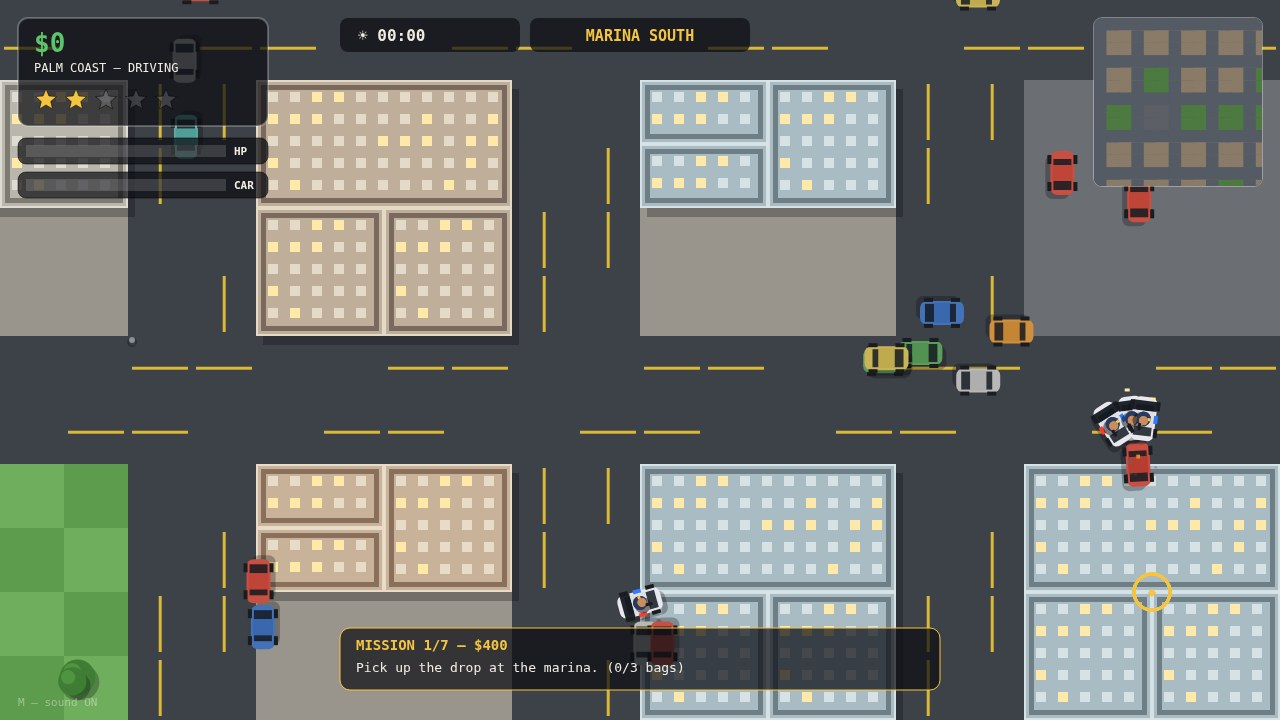
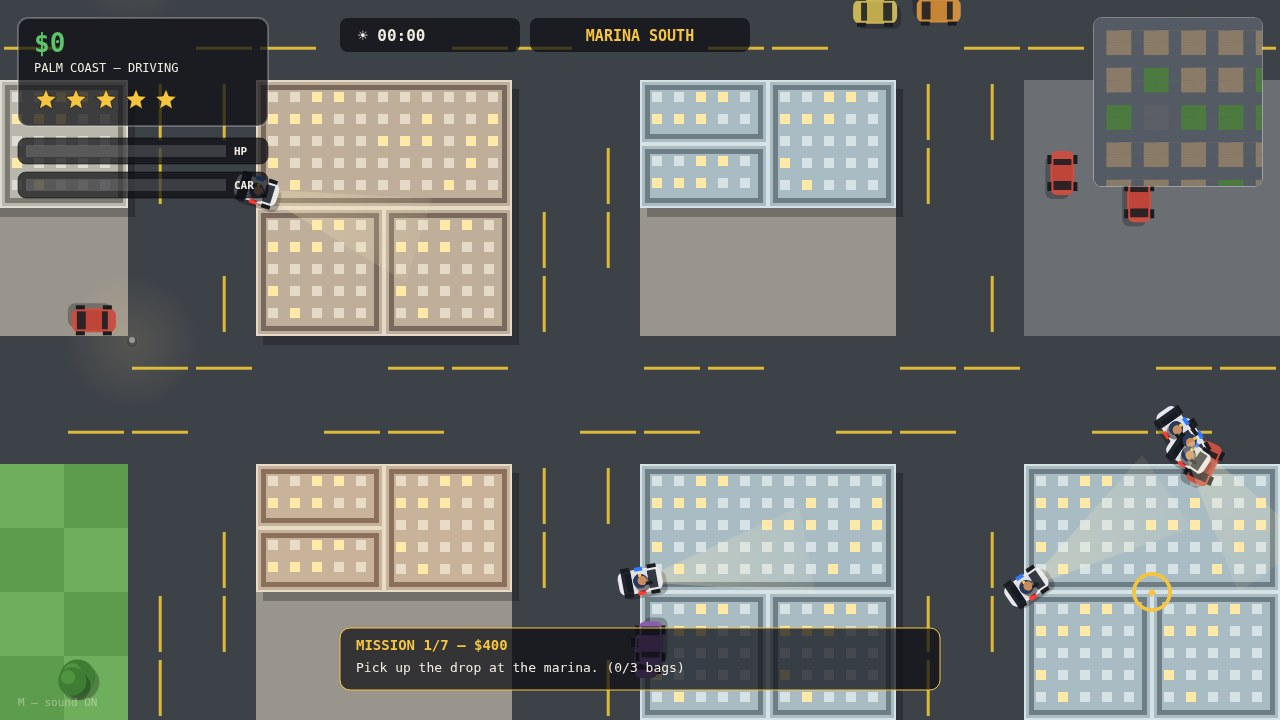
Visual/audio polish: effects, lights, minimap, complete

diff --git a/game/src/render.js b/game/src/render.js
@@ -32,6 +32,180 @@ export function createRenderer(canvas) {
   canvas.height = VIEW_H;
   ctx.imageSmoothingEnabled = false;
 
+  // --- explosion FX: register a boom when a car crosses from burning to destroyed ---
+  function updateBooms(world, cam, time) {
+    for (const c of world.cars) {
+      const prev = state.burnPrev.get(c);
+      if (c.burn === -999 && prev !== undefined && prev !== -999) {
+        // detonation frame: flash + expanding shockwave + debris spray
+        state.booms.push({ x: c.x, y: c.y, t0: time });
+        state.shake = Math.max(state.shake, 10);
+        for (let i = 0; i < 26; i++) {
+          const a = Math.random() * Math.PI * 2;
+          const s = 90 + Math.random() * 190;
+          world.particles.push({
+            x: c.x, y: c.y,
+            vx: Math.cos(a) * s, vy: Math.sin(a) * s,
+            life: 0.5 + Math.random() * 0.6,
+            color: Math.random() < 0.5 ? '#f5c542' : Math.random() < 0.5 ? '#e05a2f' : '#3c4046',
+            size: 2 + Math.random() * 4,
+          });
+        }
+      }
+      state.burnPrev.set(c, c.burn);
+    }
+    for (const b of state.booms) b.age = time - b.t0;
+    state.booms = state.booms.filter((b) => b.age < 0.7);
+  }
+
+  function drawBooms(world, cam) {
+    for (const b of state.booms) {
+      const x = b.x - cam.x;
+      const y = b.y - cam.y;
+      const a = b.age;
+      // shockwave ring: expands and fades over ~0.7s
+      const r = 14 + (a / 0.7) * 150;
+      ctx.strokeStyle = `rgba(255, 240, 200, ${Math.max(0, 0.85 * (1 - a / 0.7))})`;
+      ctx.lineWidth = 4 * (1 - a / 0.7) + 1;
+      circle(x, y, r, null, null, 0);
+      ctx.stroke();
+      // white-hot flash in the first 100ms
+      if (a < 0.12) {
+        ctx.fillStyle = `rgba(255, 250, 230, ${0.9 * (1 - a / 0.12)})`;
+        circle(x, y, 44, null, null, 0);
+        ctx.fill();
+      }
+      // warm glow decaying
+      ctx.fillStyle = `rgba(240, 150, 60, ${Math.max(0, 0.35 * (1 - a / 0.5))})`;
+      circle(x, y, 30 + a * 30, null, null, 0);
+      ctx.fill();
+    }
+  }
+
+  // --- tire smoke: puffs behind the player while skidding (car drifting fast turns) ---
+  function drawSmoke(world, cam, time) {
+    const c = world.player.onFoot ? null : world.player.car;
+    if (c && Math.abs(c.speed) > 140) {
+      const drift = Math.abs(Math.sin(c.angle) * c.vx - Math.cos(c.angle) * c.vy);
+      if (drift > 60 && Math.random() < 0.5) {
+        world.particles.push({
+          x: c.x - Math.cos(c.angle) * 20, y: c.y - Math.sin(c.angle) * 20,
+          vx: (Math.random() - 0.5) * 30, vy: (Math.random() - 0.5) * 30 - 10,
+          life: 0.7, color: 'rgba(210,210,215,0.55)', size: 7 + Math.random() * 6,
+        });
+      }
+    }
+    void time;
+  }
+
+  // --- fog of war: coarse grid over the minimap, chunk marked explored when the player passes ---
+  function updateFog(world) {
+    const W = 27;
+    if (state.fogW !== W) {
+      state.fogW = W;
+      state.fog = new Uint8Array(W * W);
+    }
+    const p = world.player;
+    const cx = Math.floor((p.x / WORLD_W) * W);
+    const cy = Math.floor((p.y / WORLD_H) * W);
+    for (let dy = -1; dy <= 1; dy++) {
+      for (let dx = -1; dx <= 1; dx++) {
+        const fx = cx + dx;
+        const fy = cy + dy;
+        if (fx >= 0 && fy >= 0 && fx < W && fy < W) state.fog[fy * W + fx] = 1;
+      }
+    }
+  }
+
+  function drawLightCone(world, cam, night) {
+    // headlight cones at night for the player + moving traffic + cop cars
+    if (!night) return;
+    const cones = [];
+    for (const c of world.cars) {
+      if (c.burn || c.role === 'wreck') continue;
+      if (c.role !== 'player' && c.role !== 'cop' && Math.abs(c.speed) < 8) continue;
+      cones.push(c);
+    }
+    for (const c of cones) {
+      const x = c.x - cam.x;
+      const y = c.y - cam.y;
+      if (x < -160 || y < -160 || x > VIEW_W + 160 || y > VIEW_H + 160) continue;
+      ctx.save();
+      ctx.translate(x, y);
+      ctx.rotate(c.angle);
+      const len = 150;
+      const hw = 44;
+      const grad = ctx.createRadialGradient(20, 0, 6, 20 + len / 2, 0, len);
+      grad.addColorStop(0, 'rgba(255, 240, 190, 0.28)');
+      grad.addColorStop(1, 'rgba(255, 240, 190, 0)');
+      ctx.fillStyle = grad;
+      ctx.beginPath();
+      ctx.moveTo(20, -6);
+      ctx.lineTo(20 + len, -hw);
+      ctx.lineTo(20 + len, hw);
+      ctx.lineTo(20, 6);
+      ctx.closePath();
+      ctx.fill();
+      ctx.restore();
+    }
+  }
+
+  function drawLampGlow(world, cam, dayT) {
+    // soft radial pool of light under each lit street lamp after dusk
+    const hour = ((dayT + 0.5) % 1) * 24;
+    if (hour < 19 && hour > 6.5) return;
+    const lit = [];
+    for (let ty = Math.max(0, Math.floor(cam.y / TILE) - 2); ty <= Math.min(world.mh - 1, Math.ceil((cam.y + VIEW_H) / TILE) + 1); ty++) {
+      for (let tx = Math.max(0, Math.floor(cam.x / TILE) - 2); tx <= Math.min(world.mw - 1, Math.ceil((cam.x + VIEW_W) / TILE) + 1); tx++) {
+        if (world.tiles[ty * world.mw + tx] !== T_ROAD) continue;
+        const gx = tx % 6;
+        const gy = ty % 6;
+        const edge = (gy === 0 && tx % 18 === 0) || (gx === 0 && ty % 18 === 0);
+        if (!edge) continue;
+        const x = tx * TILE - cam.x + 4;
+        const y = ty * TILE - cam.y + 6;
+        const flick = 0.75 + 0.25 * Math.sin(world.time * 9 + tx * 3.7 + ty * 1.3);
+        const g = ctx.createRadialGradient(x, y, 2, x, y, 70);
+        g.addColorStop(0, `rgba(255, 226, 150, ${0.20 * flick})`);
+        g.addColorStop(1, 'rgba(255, 226, 150, 0)');
+        ctx.fillStyle = g;
+        ctx.fillRect(x - 70, y - 70, 140, 140);
+        lit.push([x, y]);
+      }
+    }
+    state.glowLights = lit;
+  }
+
+  function drawWater(world, cam, time, dayT, night) {
+    // shimmer at the coast: animated wave stripes inside ocean tiles
+    const base = night ? '#16233c' : '#2c6d9e';
+    const tx0 = Math.max(0, Math.floor(cam.x / TILE));
+    const ty0 = Math.max(0, Math.floor(cam.y / TILE));
+    const tx1 = Math.min(world.mw - 1, Math.ceil((cam.x + VIEW_W) / TILE));
+    const ty1 = Math.min(world.mh - 1, Math.ceil((cam.y + VIEW_H) / TILE));
+    for (let ty = ty0; ty <= ty1; ty++) {
+      for (let tx = tx0; tx <= tx1; tx++) {
+        if (world.tiles[ty * world.mw + tx] !== 5) continue;
+        const x = tx * TILE - cam.x;
+        const y = ty * TILE - cam.y;
+        ctx.fillStyle = base;
+        ctx.fillRect(x, y, TILE, TILE);
+        // a few moving highlight arcs per tile
+        for (let i = 0; i < 2; i++) {
+          const ph = world.time * 1.6 + tx * 0.7 + ty * 0.53 + i * 2.2;
+          const wy = y + ((ph % 1) * TILE);
+          const wx = x + ((Math.sin(ph * 2.7) * 0.5 + 0.5) * (TILE - 34));
+          ctx.strokeStyle = `rgba(210, 235, 250, ${0.14 + 0.08 * Math.sin(ph * 3) + (dayT > 0.4 && dayT < 0.6 ? 0.05 : 0)})`;
+          ctx.lineWidth = 2;
+          ctx.beginPath();
+          ctx.moveTo(wx, wy);
+          ctx.quadraticCurveTo(wx + 17, wy - 4, wx + 34, wy);
+          ctx.stroke();
+        }
+      }
+    }
+  }
+
   function circle(x, y, r, fill, stroke, lw) {
     ctx.beginPath();
     ctx.arc(x, y, r, 0, Math.PI * 2);
@@ -589,18 +763,36 @@ export function createRenderer(canvas) {
       const dayT = world.dayT ?? 0.5;
       const night = dayT > 0.78 || dayT < 0.23;
       const dusk = !night && (dayT > 0.68 || dayT < 0.3);
+      updateBooms(world, cam, world.time);
+      updateFog(world);
+      // screenshake
+      ctx.save();
+      if (state.shake > 0.2) {
+        ctx.translate((Math.random() - 0.5) * state.shake, (Math.random() - 0.5) * state.shake);
+        state.shake *= 0.88;
+      } else state.shake = 0;
       ctx.fillStyle = night ? '#1c2438' : dusk ? '#c98f6f' : '#8fb8c9';
-      ctx.fillRect(0, 0, VIEW_W, VIEW_H);
+      ctx.fillRect(-40, -40, VIEW_W + 80, VIEW_H + 80);
       drawWorldLayer(world, cam, dayT);
+      drawLampGlow(world, cam, dayT);
       drawBuildings(world, cam);
       drawPickups(world, cam, world.time);
       for (const c of world.cars) drawCar(c, cam, world.time, c.role === 'player');
       for (const ped of world.peds) drawPed(ped, cam, world.time);
       for (const cop of world.cops) if (cop.role === 'cop') drawCop(cop, cam);
       drawPlayer(world, cam);
+      drawLightCone(world, cam, world.dayT);
+      drawSmoke(world, cam, world.time);
+      drawBooms(world, cam);
+      ctx.restore(); // end screenshake
       // night/dusk overlay above the world, below the HUD
-      if (night) { ctx.fillStyle = 'rgba(10, 14, 34, 0.45)'; ctx.fillRect(0, 0, VIEW_W, VIEW_H); }
-      else if (dusk) { ctx.fillStyle = 'rgba(120, 60, 40, 0.18)'; ctx.fillRect(0, 0, VIEW_W, VIEW_H); }
+      if (night) {
+        ctx.fillStyle = 'rgba(10, 14, 34, 0.45)';
+        ctx.fillRect(0, 0, VIEW_W, VIEW_H);
+      } else if (dusk) {
+        ctx.fillStyle = 'rgba(120, 60, 40, 0.18)';
+        ctx.fillRect(0, 0, VIEW_W, VIEW_H);
+      }
       if (world.cityTaken) {
         ctx.fillStyle = 'rgba(12, 14, 20, 0.55)';
         roundRect(VIEW_W / 2 - 260, VIEW_H / 2 - 44, 520, 88, 12);
@@ -617,8 +809,6 @@ export function createRenderer(canvas) {
         ctx.fillText('Manny\'s empire is complete — the Coast is yours.', VIEW_W / 2, VIEW_H / 2 + 30);
         ctx.textAlign = 'left';
       }
-      drawBullets(world, cam);
-
       if (screen === SCREEN_PLAY || screen === SCREEN_PAUSED) {
         drawHUD(world);
         if (screen === SCREEN_PAUSED) {

diff --git a/game/src/audio.js b/game/src/audio.js
@@ -91,6 +91,14 @@ export function createAudio() {
     if (master) master.gain.value = m ? 0 : 0.5;
   }
 
+  // --- music: called once per frame with the wanted level ---
+  function musicUpdate(wanted) {
+    const wantMood = wanted >= 2 ? 1 : 0;
+    if (wantMood !== mood) mood = wantMood;
+    musicStart();
+    if (siren && wanted === 0) sirenSet(false);
+  }
+
   // --- one-shot effects ---
   function blip(freq, dur, type, vol) {
     if (!ensure() || muted) return;
@@ -126,12 +134,89 @@ export function createAudio() {
     src.start();
   }
 
+  function honk() {
+    blip(370, 0.28, 'square', 0.07);
+    blip(466, 0.28, 'square', 0.05);
+  }
+
+  function crash() {
+    // crunchy metallic impact: fast noise burst + low thunk
+    noise(0.18, 0.3, 2200);
+    blip(95, 0.14, 'sawtooth', 0.14);
+  }
+
+  // --- screenshot mode has no audio clock; a no-op sentinel keeps autoplay happy ---
+  function noop() {}
+
+  // --- procedural music: 16-step bass + arp loop, mood shifts with the wanted level ---
+  let musicTimer = null;
+  let mood = 0; // 0 chill, 1 tense (2+ stars)
+  const BASS_CHILL = [0, 0, 7, 0, 0, 0, 5, 0, 0, 0, 7, 0, 3, 0, 5, 0];
+  const BASS_HEAT = [0, 0, 0, 6, 0, 0, 0, 6, 1, 0, 1, 0, 6, 0, 0, 0];
+  const ARP = [12, 19, 16, 19, 12, 19, 15, 19, 12, 19, 16, 19, 14, 17, 12, 17];
+
+  function musicNote(freq, dur, type, vol) {
+    if (!ensure() || muted) return;
+    const t = ctx.currentTime;
+    const osc = ctx.createOscillator();
+    const g = ctx.createGain();
+    osc.type = type;
+    osc.frequency.value = freq;
+    g.gain.setValueAtTime(vol, t);
+    g.gain.exponentialRampToValueAtTime(0.0001, t + dur);
+    osc.connect(g); g.connect(master);
+    osc.start(); osc.stop(t + dur + 0.02);
+  }
+
+  function musicStart() {
+    if (!ensure() || musicTimer) return;
+    let step = 0;
+    musicTimer = setInterval(() => {
+      if (!ctx || muted) return;
+      if (ctx.state === 'suspended') return;
+      const bass = mood > 0 ? BASS_HEAT : BASS_CHILL;
+      const root = mood > 0 ? 49 : 41.2; // G1 tense, E1 chill
+      const tempo = mood > 0 ? 140 : 180;
+      if (bass[step % 16] !== null && bass[step % 16] !== undefined) {
+        const semi = bass[step % 16];
+        musicNote(root * Math.pow(2, semi / 12) * 2, mood > 0 ? 0.16 : 0.3, 'sawtooth', 0.05);
+      }
+      if (step % 2 === 0 || mood > 0) {
+        const semi = ARP[(step + (mood > 0 ? 4 : 0)) % 16];
+        musicNote(root * Math.pow(2, semi / 12) * 4, 0.12, 'triangle', 0.028);
+      }
+      if (mood > 0 && step % 4 === 2) noiseTick(); // hi-hat when hunted
+      step++;
+      void tempo;
+    }, 175);
+  }
+
+  function noiseTick() {
+    const len = Math.max(1, Math.floor(ctx.sampleRate * 0.03));
+    const buffer = ctx.createBuffer(1, len, ctx.sampleRate);
+    const data = buffer.getChannelData(0);
+    for (let i = 0; i < len; i++) data[i] = (Math.random() * 2 - 1) * (1 - i / len);
+    const src = ctx.createBufferSource();
+    src.buffer = buffer;
+    const hp = ctx.createBiquadFilter();
+    hp.type = 'highpass';
+    hp.frequency.value = 6000;
+    const g = ctx.createGain();
+    g.gain.value = muted ? 0 : 0.04;
+    src.connect(hp); hp.connect(g); g.connect(master);
+    src.start();
+  }
+
   return {
     resume,
     startEngine,
     engineUpdate,
     sirenSet,
     setMuted,
+    crash,
+    honk,
+    noop,
+    musicUpdate,
     get muted() {
       return muted;
     },
